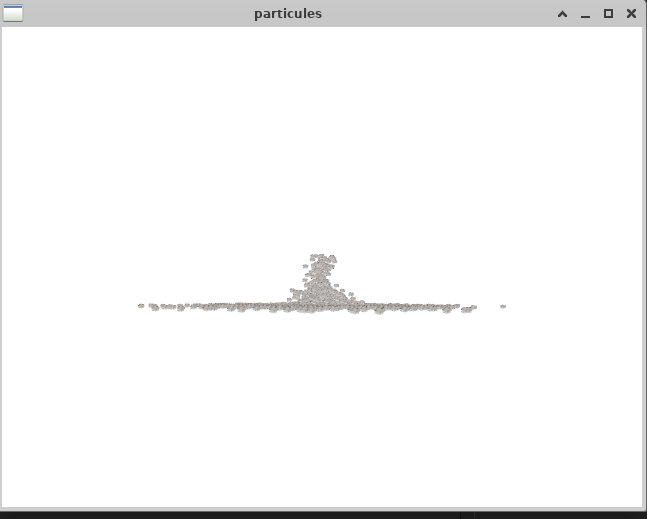
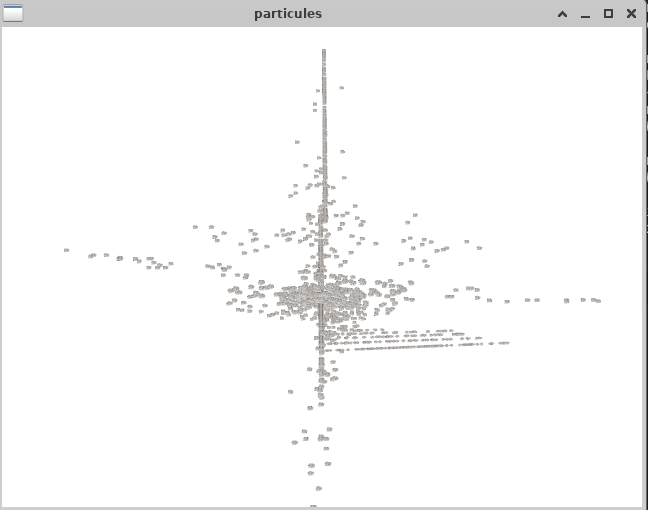
fixe compute shader with padding on struct Particle

diff --git a/particules/include/particle.h b/particules/include/particle.h
@@ -4,7 +4,9 @@
 #include <cmath>
 struct Particle {
     QVector3D pos;
+    float padding0 = 0.0f; //a mettre car dans le compute shader on utilise vec4
     QVector3D speed;
+    float padding1 = 0.0f; //a mettre car dans le compute shader on utilise vec4
     float age = 0.0f;
     float ageMax = 100.0f;
     float padding[2];

diff --git a/particules/include/systemwindow.h b/particules/include/systemwindow.h
@@ -27,7 +27,7 @@ QOpenGLShaderProgram* computeProgram = nullptr;
     QOpenGLBuffer vbo;
 GLuint ssbo;
     QOpenGLShaderProgram* program = nullptr;
-    QOpenGLFunctions_4_3_Core* gl43 = nullptr;
+QOpenGLFunctions_4_3_Core* gl43 = nullptr;
     GLint matrixUniform = -1;
 
     const int numParticles = 2000;
